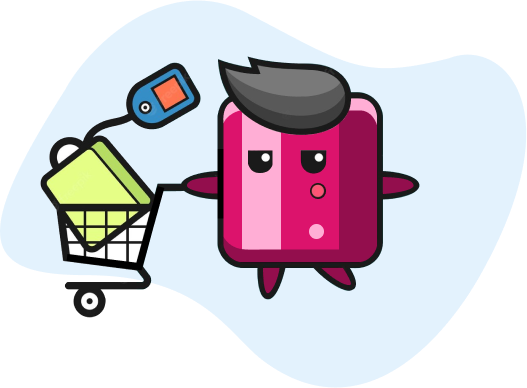
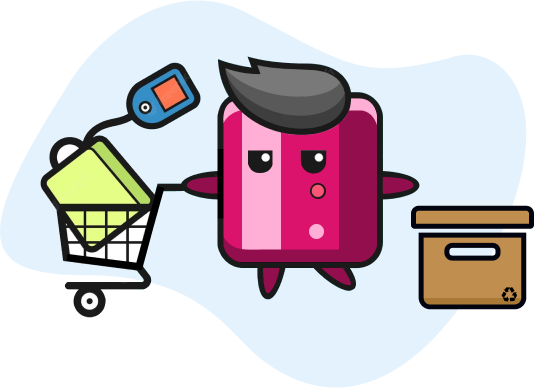
Finished working on app onboarding

diff --git a/lib/page/onboard/onboard_index.dart b/lib/page/onboard/onboard_index.dart
@@ -33,7 +33,8 @@ class _OnboardIndexState extends State<OnboardIndex> {
       padding: const EdgeInsets.only(bottom: 24.0),
       child: Text(
         title,
-        style: theme.textTheme.headline5?.copyWith(
+        style: theme.textTheme.headline4?.copyWith(
+          color: AppColor.red,
           fontWeight: FontWeight.bold,
         ),
       ),
@@ -41,7 +42,10 @@ class _OnboardIndexState extends State<OnboardIndex> {
   }
 
   Widget _buildSubTitle(String subtitle, ThemeData theme) {
-    return Text(subtitle, style: theme.textTheme.headline6);
+    return Padding(
+      padding: const EdgeInsets.symmetric(horizontal: 32.0),
+      child: Text(subtitle, style: theme.textTheme.bodyText1),
+    );
   }
 
   @override
@@ -74,8 +78,9 @@ class _OnboardIndexState extends State<OnboardIndex> {
                 crossAxisAlignment: CrossAxisAlignment.center,
                 children: [
                   _buildImage('assets/images/vendarr-cart.png'),
-                  _buildTitle('Lorem ipsum!', _theme),
-                  _buildSubTitle('Sed non dui nec nulla pharetra.', _theme),
+                  _buildTitle('Definitive storage', _theme),
+                  _buildSubTitle(
+                      'Storehouse for your products and stuff!', _theme),
                 ],
               ),
             ),
@@ -91,8 +96,8 @@ class _OnboardIndexState extends State<OnboardIndex> {
                 crossAxisAlignment: CrossAxisAlignment.center,
                 children: [
                   _buildImage('assets/images/vendarr-phone.png'),
-                  _buildTitle('Lorem ipsum!', _theme),
-                  _buildSubTitle('Sed non dui nec nulla pharetra.', _theme),
+                  _buildTitle('Works Offline', _theme),
+                  _buildSubTitle('No connection? No problem!', _theme),
                 ],
               ),
             ),
@@ -108,17 +113,16 @@ class _OnboardIndexState extends State<OnboardIndex> {
                 crossAxisAlignment: CrossAxisAlignment.center,
                 children: [
                   _buildImage('assets/images/vendarr-money.png'),
-                  _buildTitle('Lorem ipsum!', _theme),
-                  _buildSubTitle('Sed non dui nec nulla pharetra.', _theme),
+                  _buildTitle('Monitor Earnings', _theme),
+                  _buildSubTitle('Tracking profit as easy as it gets!', _theme),
                 ],
               ),
             ),
             decoration: _pageDecoration,
           ),
         ],
-
         onDone: () => _onIntroEnd(context),
-        //onSkip: () => _onIntroEnd(context), // You can override onSkip callback
+        // onSkip: () => _onIntroEnd(context),
         showSkipButton: true,
         skipOrBackFlex: 0,
         nextFlex: 0,
@@ -139,8 +143,11 @@ class _OnboardIndexState extends State<OnboardIndex> {
           'Done',
           style: TextStyle(
             fontWeight: FontWeight.w600,
-            color: AppColor.red,
+            color: AppColor.white,
           ),
+        ),
+        doneStyle: ButtonStyle(
+          backgroundColor: MaterialStateProperty.all(AppColor.red),
         ),
         curve: Curves.fastLinearToSlowEaseIn,
         controlsMargin: const EdgeInsets.all(16.0),

diff --git a/lib/main.dart b/lib/main.dart
@@ -5,6 +5,7 @@ import 'package:flutter/material.dart';
 import 'package:flutter/services.dart';
 import 'package:provider/provider.dart';
 import 'package:flutter_config/flutter_config.dart';
+import 'package:shared_preferences/shared_preferences.dart';
 import 'package:permission_handler/permission_handler.dart';
 import 'package:flutter_riverpod/flutter_riverpod.dart' as fr;
 import 'package:vendibase/provider/app_database_provider.dart';
@@ -59,6 +60,13 @@ class MyApp extends StatefulWidget {
 class _MyAppState extends State<MyApp> {
   String? _initialRoute;
 
+  Future<bool> _checkOnboard() async {
+    final _prefs = await SharedPreferences.getInstance();
+    final _isInitial = _prefs.getBool('isInitial') ?? true;
+    await _prefs.setBool('isInitial', false);
+    return _isInitial;
+  }
+
   void _requestPermission() async {
     final permissions = [
       Permission.storage,
@@ -92,7 +100,8 @@ class _MyAppState extends State<MyApp> {
     final launchDetails = await AppNotification.getLaunchDetails();
     final didNotifLaunchApp = launchDetails?.didNotificationLaunchApp ?? false;
 
-    _initialRoute = AppRouter.home;
+    _initialRoute =
+        await _checkOnboard() ? AppRouter.onboardIndex : AppRouter.home;
     if (didNotifLaunchApp) {
       AppNotification.selectedPayload = launchDetails!.payload;
       _initialRoute = AppRouter.arrearView;

diff --git a/README.md b/README.md
@@ -51,6 +51,7 @@ This application is using Drift to handle CRUD operations enabling offline data 
 * [Drift](https://github.com/simolus3/drift) (Persistence Library)
 * [Provider](https://github.com/rrousselGit/provider) (State Management)
 * [Permissions](https://github.com/baseflow/flutter-permission-handler)
+* [Shared Preferences](https://github.com/flutter/plugins/tree/main/packages/shared_preferences/shared_preferences)
 * [Forms](https://github.com/danvick/flutter_form_builder)
 * [App Notifications](https://github.com/MaikuB/flutter_local_notifications)
 * [Data Visualization](https://github.com/syncfusion/flutter-widgets)
